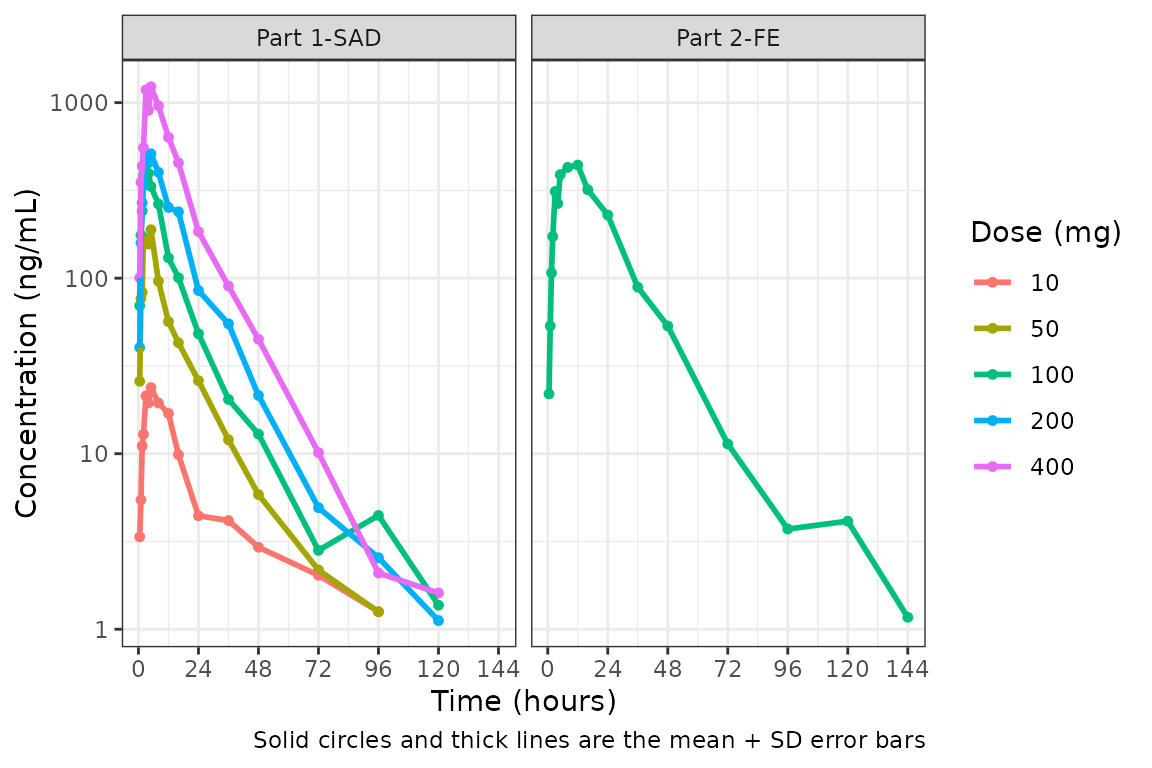
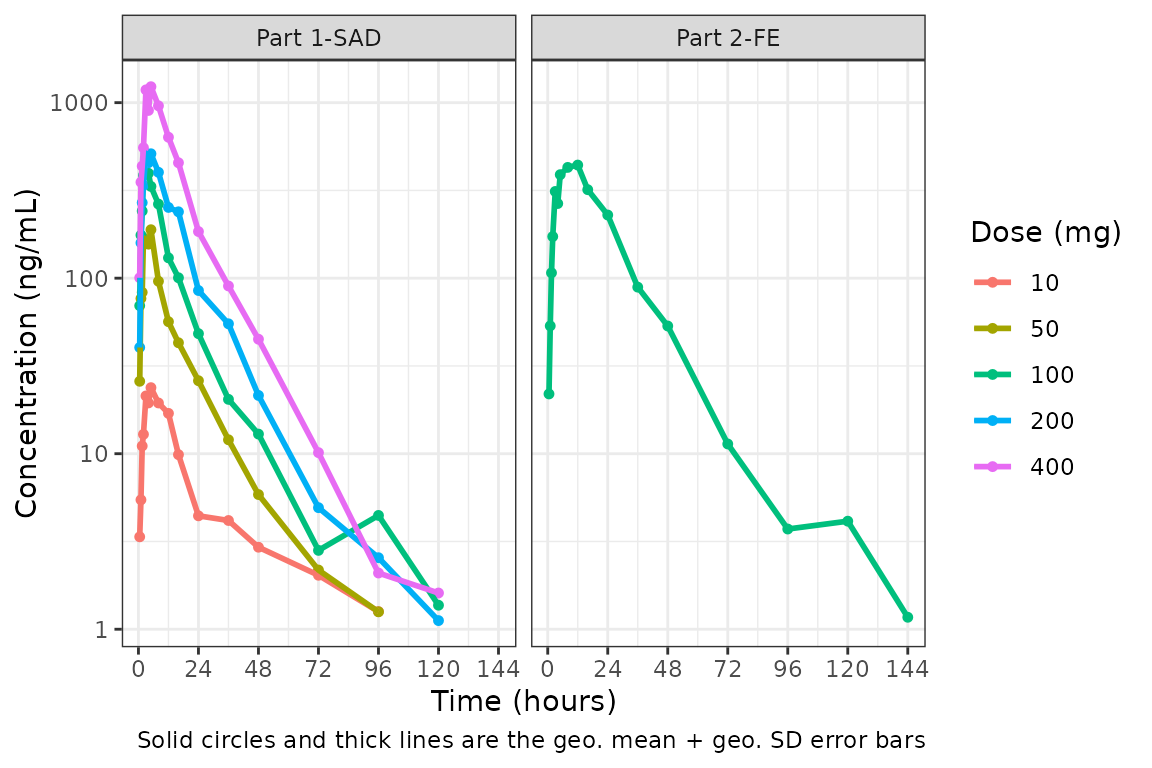
Deploying to gh-pages from @ ryancrass/pmxhelpr@df66dc0bb28a39762f27c5cfb52302dde12fb399 🚀

Changed region(s): [[0.125, 0.9375, 0.6562, 1.0]]

diff --git a/articles/eda-pmxhelpr.html b/articles/eda-pmxhelpr.html
@@ -227,10 +227,9 @@ to plot the mean with error bars and remove the observed points by
 specifying <code>obs_dv = FALSE</code>.</p>
 <div class="sourceCode" id="cb10"><pre class="downlit sourceCode r">
 <code class="sourceCode R"><span><span class="fu"><a href="../reference/plot_dvtime.html">plot_dvtime</a></span><span class="op">(</span>data <span class="op">=</span> <span class="va">plot_data</span>, dv_var <span class="op">=</span> <span class="fu"><a href="https://rdrr.io/r/base/c.html" class="external-link">c</a></span><span class="op">(</span>DV <span class="op">=</span> <span class="st">"ODV"</span><span class="op">)</span>, col_var <span class="op">=</span> <span class="st">"Dose (mg)"</span>, cent <span class="op">=</span> <span class="st">"mean_sdl"</span>, </span>
-<span>            obs_dv <span class="op">=</span> <span class="cn">FALSE</span>,</span>
-<span>            ylab <span class="op">=</span> <span class="st">"Concentration (ng/mL)"</span>, xlab <span class="op">=</span> <span class="st">"Time (hours)"</span><span class="op">)</span> <span class="op">+</span></span>
+<span>            ylab <span class="op">=</span> <span class="st">"Concentration (ng/mL)"</span>, xlab <span class="op">=</span> <span class="st">"Time (hours)"</span>, log_y <span class="op">=</span> <span class="cn">TRUE</span>,</span>
+<span>            obs_dv <span class="op">=</span> <span class="cn">FALSE</span><span class="op">)</span> <span class="op">+</span></span>
 <span>  <span class="fu"><a href="https://ggplot2.tidyverse.org/reference/scale_continuous.html" class="external-link">scale_x_continuous</a></span><span class="op">(</span>breaks <span class="op">=</span> <span class="fu"><a href="https://rdrr.io/r/base/seq.html" class="external-link">seq</a></span><span class="op">(</span><span class="fl">0</span>,<span class="fl">168</span>,<span class="fl">24</span><span class="op">)</span><span class="op">)</span><span class="op">+</span></span>
-<span>  <span class="fu"><a href="https://ggplot2.tidyverse.org/reference/scale_continuous.html" class="external-link">scale_y_log10</a></span><span class="op">(</span><span class="op">)</span><span class="op">+</span></span>
 <span>  <span class="fu"><a href="https://ggplot2.tidyverse.org/reference/facet_wrap.html" class="external-link">facet_wrap</a></span><span class="op">(</span><span class="op">~</span><span class="va">PART</span><span class="op">)</span><span class="op">+</span></span>
 <span>  <span class="fu"><a href="https://ggplot2.tidyverse.org/reference/ggtheme.html" class="external-link">theme_bw</a></span><span class="op">(</span><span class="op">)</span></span></code></pre></div>
 <p><img src="eda-pmxhelpr_files/figure-html/plot-dvtime_part-meansdl-1.png" width="576"></p>
@@ -243,11 +242,10 @@ other words, make a spaghetti plot.</p>
 spaghetti lines. Data points within an individual will be connected by a
 narrow line when <code>ind_dv = TRUE</code></p>
 <div class="sourceCode" id="cb11"><pre class="downlit sourceCode r">
-<code class="sourceCode R"><span><span class="fu"><a href="../reference/plot_dvtime.html">plot_dvtime</a></span><span class="op">(</span>data <span class="op">=</span> <span class="va">plot_data</span>, dv_var <span class="op">=</span> <span class="fu"><a href="https://rdrr.io/r/base/c.html" class="external-link">c</a></span><span class="op">(</span>DV <span class="op">=</span> <span class="st">"ODV"</span><span class="op">)</span>, col_var <span class="op">=</span> <span class="st">"Dose (mg)"</span>, </span>
-<span>            cent <span class="op">=</span> <span class="st">"median"</span>, ind_dv <span class="op">=</span> <span class="cn">TRUE</span>,</span>
-<span>            ylab <span class="op">=</span> <span class="st">"Concentration (ng/mL)"</span>, xlab <span class="op">=</span> <span class="st">"Time (hours)"</span><span class="op">)</span> <span class="op">+</span></span>
+<code class="sourceCode R"><span><span class="fu"><a href="../reference/plot_dvtime.html">plot_dvtime</a></span><span class="op">(</span>data <span class="op">=</span> <span class="va">plot_data</span>, dv_var <span class="op">=</span> <span class="fu"><a href="https://rdrr.io/r/base/c.html" class="external-link">c</a></span><span class="op">(</span>DV <span class="op">=</span> <span class="st">"ODV"</span><span class="op">)</span>, col_var <span class="op">=</span> <span class="st">"Dose (mg)"</span>, cent <span class="op">=</span> <span class="st">"median"</span>, </span>
+<span>            ylab <span class="op">=</span> <span class="st">"Concentration (ng/mL)"</span>, xlab <span class="op">=</span> <span class="st">"Time (hours)"</span>, log_y <span class="op">=</span> <span class="cn">TRUE</span>, </span>
+<span>            ind_dv <span class="op">=</span> <span class="cn">TRUE</span><span class="op">)</span> <span class="op">+</span></span>
 <span>  <span class="fu"><a href="https://ggplot2.tidyverse.org/reference/scale_continuous.html" class="external-link">scale_x_continuous</a></span><span class="op">(</span>breaks <span class="op">=</span> <span class="fu"><a href="https://rdrr.io/r/base/seq.html" class="external-link">seq</a></span><span class="op">(</span><span class="fl">0</span>,<span class="fl">168</span>,<span class="fl">24</span><span class="op">)</span><span class="op">)</span><span class="op">+</span></span>
-<span>  <span class="fu"><a href="https://ggplot2.tidyverse.org/reference/scale_continuous.html" class="external-link">scale_y_log10</a></span><span class="op">(</span><span class="op">)</span><span class="op">+</span></span>
 <span>  <span class="fu"><a href="https://ggplot2.tidyverse.org/reference/facet_wrap.html" class="external-link">facet_wrap</a></span><span class="op">(</span><span class="op">~</span><span class="va">PART</span><span class="op">)</span><span class="op">+</span></span>
 <span>  <span class="fu"><a href="https://ggplot2.tidyverse.org/reference/ggtheme.html" class="external-link">theme_bw</a></span><span class="op">(</span><span class="op">)</span></span></code></pre></div>
 <p><img src="eda-pmxhelpr_files/figure-html/plot-dvtime-part-ind-1.png" width="576"></p>
@@ -276,18 +274,17 @@ our case, <code>LLOQ</code> is a variable in <code>plot_data</code>, so
 we do not need to specify the <code>loq</code> argument (default is
 <code>loq = NULL</code>).</p>
 <div class="sourceCode" id="cb12"><pre class="downlit sourceCode r">
-<code class="sourceCode R"><span><span class="fu"><a href="../reference/plot_dvtime.html">plot_dvtime</a></span><span class="op">(</span><span class="va">plot_data</span>, dv_var <span class="op">=</span> <span class="fu"><a href="https://rdrr.io/r/base/c.html" class="external-link">c</a></span><span class="op">(</span>DV <span class="op">=</span> <span class="st">"ODV"</span><span class="op">)</span>, col_var <span class="op">=</span> <span class="st">"Dose (mg)"</span>,  </span>
-<span>            ylab <span class="op">=</span> <span class="st">"Concentration (ng/mL)"</span>, xlab <span class="op">=</span> <span class="st">"Time (hours)"</span>, </span>
+<code class="sourceCode R"><span><span class="fu"><a href="../reference/plot_dvtime.html">plot_dvtime</a></span><span class="op">(</span><span class="va">plot_data</span>, dv_var <span class="op">=</span> <span class="fu"><a href="https://rdrr.io/r/base/c.html" class="external-link">c</a></span><span class="op">(</span>DV <span class="op">=</span> <span class="st">"ODV"</span><span class="op">)</span>, col_var <span class="op">=</span> <span class="st">"Dose (mg)"</span>, </span>
+<span>            ylab <span class="op">=</span> <span class="st">"Concentration (ng/mL)"</span>, xlab <span class="op">=</span> <span class="st">"Time (hours)"</span>, log_y <span class="op">=</span> <span class="cn">TRUE</span>,</span>
 <span>            loq_method <span class="op">=</span> <span class="fl">2</span><span class="op">)</span> <span class="op">+</span></span>
 <span>  <span class="fu"><a href="https://ggplot2.tidyverse.org/reference/scale_continuous.html" class="external-link">scale_x_continuous</a></span><span class="op">(</span>breaks <span class="op">=</span> <span class="fu"><a href="https://rdrr.io/r/base/seq.html" class="external-link">seq</a></span><span class="op">(</span><span class="fl">0</span>,<span class="fl">168</span>,<span class="fl">24</span><span class="op">)</span><span class="op">)</span><span class="op">+</span></span>
-<span>  <span class="fu"><a href="https://ggplot2.tidyverse.org/reference/scale_continuous.html" class="external-link">scale_y_log10</a></span><span class="op">(</span><span class="op">)</span><span class="op">+</span></span>
 <span>  <span class="fu"><a href="https://ggplot2.tidyverse.org/reference/facet_wrap.html" class="external-link">facet_wrap</a></span><span class="op">(</span><span class="op">~</span><span class="va">PART</span><span class="op">)</span><span class="op">+</span></span>
 <span>  <span class="fu"><a href="https://ggplot2.tidyverse.org/reference/ggtheme.html" class="external-link">theme_bw</a></span><span class="op">(</span><span class="op">)</span></span></code></pre></div>
 <p><img src="eda-pmxhelpr_files/figure-html/plot-dvtime-blq1-1.png" width="576"></p>
 <p>The same plot is obtained by specifying <code>loq = 1</code></p>
 <div class="sourceCode" id="cb13"><pre class="downlit sourceCode r">
 <code class="sourceCode R"><span><span class="fu"><a href="../reference/plot_dvtime.html">plot_dvtime</a></span><span class="op">(</span><span class="va">plot_data</span>, dv_var <span class="op">=</span> <span class="fu"><a href="https://rdrr.io/r/base/c.html" class="external-link">c</a></span><span class="op">(</span>DV <span class="op">=</span> <span class="st">"ODV"</span><span class="op">)</span>, col_var <span class="op">=</span> <span class="st">"Dose (mg)"</span>,  </span>
-<span>            ylab <span class="op">=</span> <span class="st">"Concentration (ng/mL)"</span>, xlab <span class="op">=</span> <span class="st">"Time (hours)"</span>, </span>
+<span>            ylab <span class="op">=</span> <span class="st">"Concentration (ng/mL)"</span>, xlab <span class="op">=</span> <span class="st">"Time (hours)"</span>, log_y <span class="op">=</span> <span class="cn">TRUE</span>,</span>
 <span>            loq_method <span class="op">=</span> <span class="fl">2</span>, loq <span class="op">=</span> <span class="fl">1</span><span class="op">)</span> <span class="op">+</span></span>
 <span>  <span class="fu"><a href="https://ggplot2.tidyverse.org/reference/scale_continuous.html" class="external-link">scale_x_continuous</a></span><span class="op">(</span>breaks <span class="op">=</span> <span class="fu"><a href="https://rdrr.io/r/base/seq.html" class="external-link">seq</a></span><span class="op">(</span><span class="fl">0</span>,<span class="fl">168</span>,<span class="fl">24</span><span class="op">)</span><span class="op">)</span><span class="op">+</span></span>
 <span>  <span class="fu"><a href="https://ggplot2.tidyverse.org/reference/scale_continuous.html" class="external-link">scale_y_log10</a></span><span class="op">(</span><span class="op">)</span><span class="op">+</span></span>
